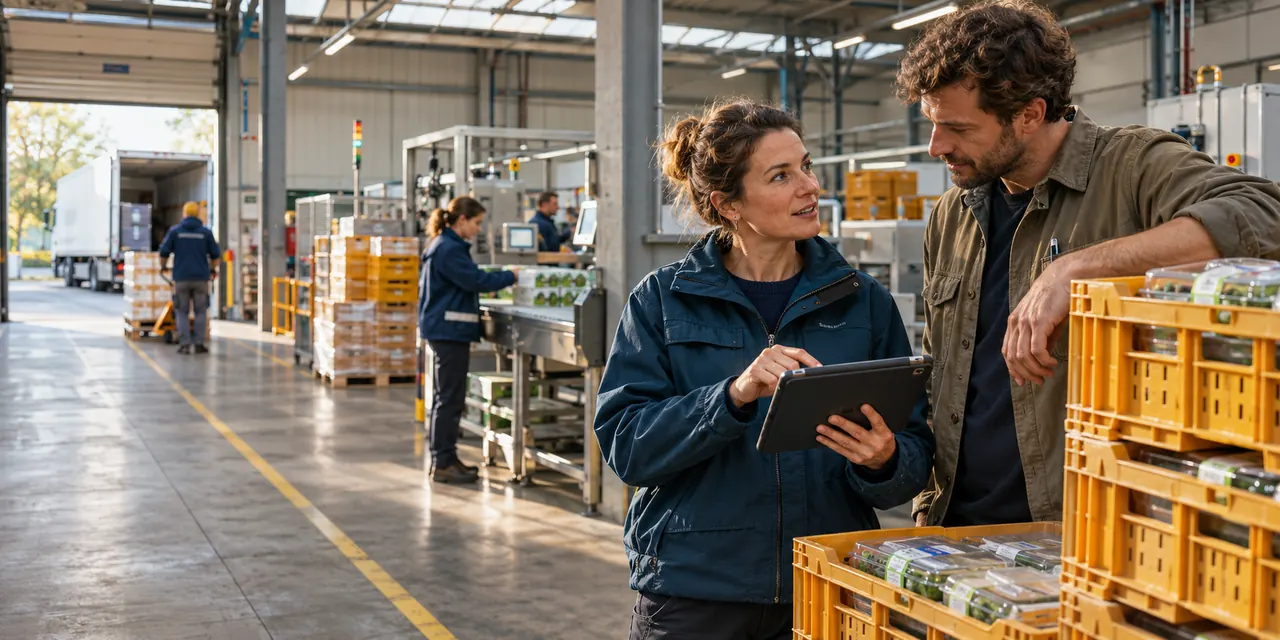
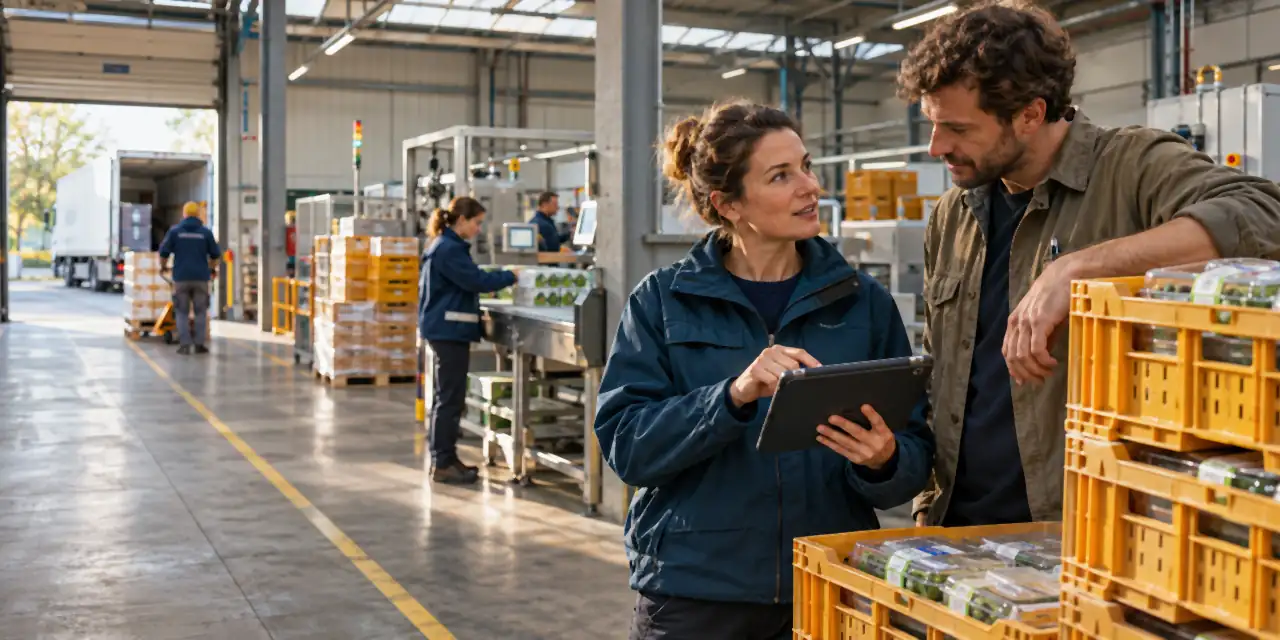
Lever een lichtere hero aan telefoons en laad de paginataal eerder

diff --git a/index.html b/index.html
@@ -3,7 +3,9 @@
 <head>
 <meta charset="utf-8">
 <meta name="viewport" content="width=device-width, initial-scale=1, viewport-fit=cover">
-<link rel="preload" as="image" type="image/webp" href="img/hero-toepassingen-1774.webp" imagesrcset="img/hero-toepassingen-640.webp 640w, img/hero-toepassingen-1280.webp 1280w, img/hero-toepassingen-1774.webp 1774w" imagesizes="100vw" fetchpriority="high">
+<link rel="preload" as="script" href="assets/i18n.js?v=20261123-release2" fetchpriority="high">
+<link rel="preload" as="script" href="assets/site.js?v=20261127-expeditie" fetchpriority="high">
+<link rel="preload" as="image" type="image/webp" href="img/hero-toepassingen-1774.webp" imagesrcset="img/hero-toepassingen-640.webp 640w, img/hero-toepassingen-840.webp 840w, img/hero-toepassingen-1280.webp 1280w, img/hero-toepassingen-1774.webp 1774w" imagesizes="100vw" fetchpriority="high">
 <meta name="description" content="Grow Faster helpt voedingsbedrijven en andere kmo’s sneller werken met AI en automatisering. Orion vult klantvragenlijsten in op basis van uw eigen documenten.">
 <link rel="canonical" href="https://grow-faster.be/">
 <meta property="og:type" content="website">
@@ -31,7 +33,6 @@
 <link rel="stylesheet" href="assets/site.css?v=20261126-ringpercentages">
 <script type="application/ld+json">{"@context":"https://schema.org","@graph":[{"@type":"WebSite","@id":"https://grow-faster.be/#website","name":"Grow Faster","url":"https://grow-faster.be/","inLanguage":["nl","fr"],"publisher":{"@id":"https://grow-faster.be/about.html#erlend"}},{"@type":"Person","@id":"https://grow-faster.be/about.html#erlend","name":"Erlend Hollebosch","url":"https://grow-faster.be/about.html","sameAs":["https://www.linkedin.com/in/erlend-hollebosch-053361181/"]}]}</script>
 <link rel="stylesheet" href="assets/navigation.css?v=20261108-menu-contrast">
-<link rel="stylesheet" href="assets/journal.css?v=20261106-journal">
 <noscript><style>.nav.nav-executive .nav-toggle,.nav.nav-executive .burger{display:none}.nav.nav-executive .wrap{height:auto;min-height:68px;flex-wrap:wrap;padding-block:12px}.nav.nav-executive .wrap>#navlist{position:static;display:flex;flex-wrap:wrap;gap:8px 20px;width:100%;order:3}.nav.nav-executive .lang-top{margin-left:auto}</style></noscript>
 <style>html:not(.i18n-ready) main{visibility:hidden;animation:i18n-reveal 0s 2.5s forwards}@keyframes i18n-reveal{to{visibility:visible}}</style><noscript><style>html:not(.i18n-ready) main{visibility:visible;animation:none}</style></noscript>
 <link rel="stylesheet" href="assets/home-hero.css?v=20261127-expeditie">
@@ -86,7 +87,7 @@
 </nav>
 
 <main id="top" tabindex="-1">
-<header class="hero hero-minimal hero-customer" id="hero"><div class="hero-top"><div class="hero-bg" aria-hidden="true"><picture><source type="image/webp" srcset="img/hero-toepassingen-640.webp 640w, img/hero-toepassingen-1280.webp 1280w, img/hero-toepassingen-1774.webp 1774w" sizes="100vw"><img src="img/hero-toepassingen-1774.webp" alt="" width="1774" height="887" fetchpriority="high" decoding="async" data-cms="f7a4946dfd792-0"></picture><video class="hero-video" id="hero-video" muted loop playsinline preload="none" disablepictureinpicture data-small="media/hero-toepassingen-1280.mp4" data-large="media/hero-toepassingen-1920.mp4" data-uhd="media/hero-toepassingen-4k.mp4" hidden></video></div><div class="wrap hero-inner">
+<header class="hero hero-minimal hero-customer" id="hero"><div class="hero-top"><div class="hero-bg" aria-hidden="true"><picture><source type="image/webp" srcset="img/hero-toepassingen-640.webp 640w, img/hero-toepassingen-840.webp 840w, img/hero-toepassingen-1280.webp 1280w, img/hero-toepassingen-1774.webp 1774w" sizes="100vw"><img src="img/hero-toepassingen-1774.webp" alt="" width="1774" height="887" fetchpriority="high" decoding="async" data-cms="f7a4946dfd792-0"></picture><video class="hero-video" id="hero-video" muted loop playsinline preload="none" disablepictureinpicture data-small="media/hero-toepassingen-1280.mp4" data-large="media/hero-toepassingen-1920.mp4" data-uhd="media/hero-toepassingen-4k.mp4" hidden></video></div><div class="wrap hero-inner">
   <h1 data-ih="home-orion-value" data-cms="home-orion-hero-heading" data-cms-heading>Sneller werken met AI en automatisering.</h1>
   <p class="sub" data-cms="home-orion-hero-sub">Grow Faster helpt u terugkerend werk te vereenvoudigen met de systemen die u al gebruikt. Met Orion vult uw kwaliteitsteam klantvragenlijsten sneller in op basis van eigen documenten.</p>
   <div class="ctas"><a href="afspraak.html?onderwerp=vragenlijsten" class="btn primary" id="hero-pilot">Plan een pilotgesprek <span aria-hidden="true">→</span></a><a href="orion.html" class="btn ghost" id="hero-orion">Zo werkt Orion <span aria-hidden="true">→</span></a></div>
